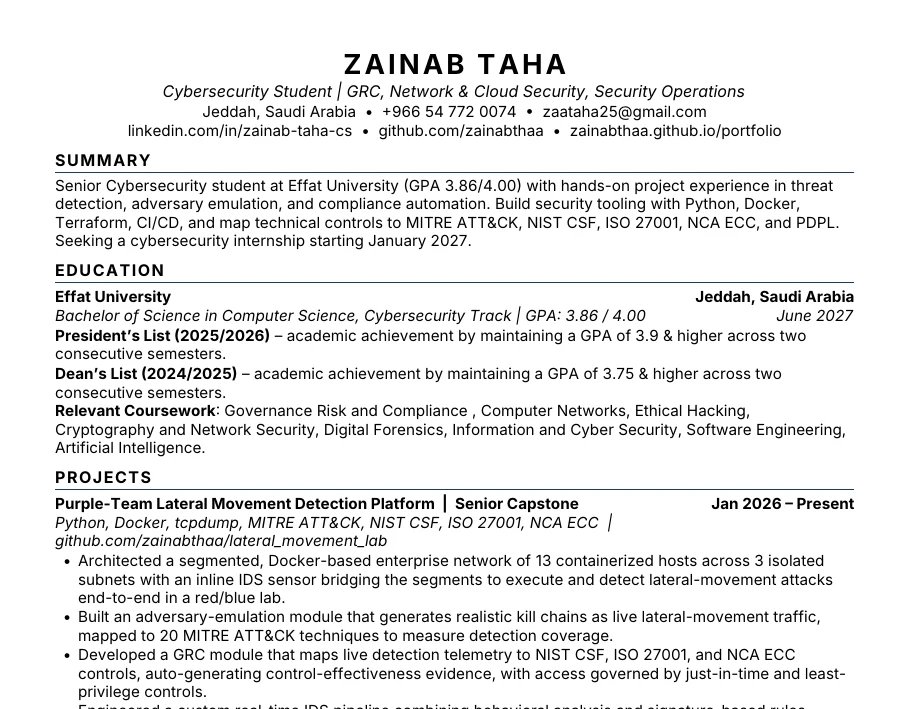
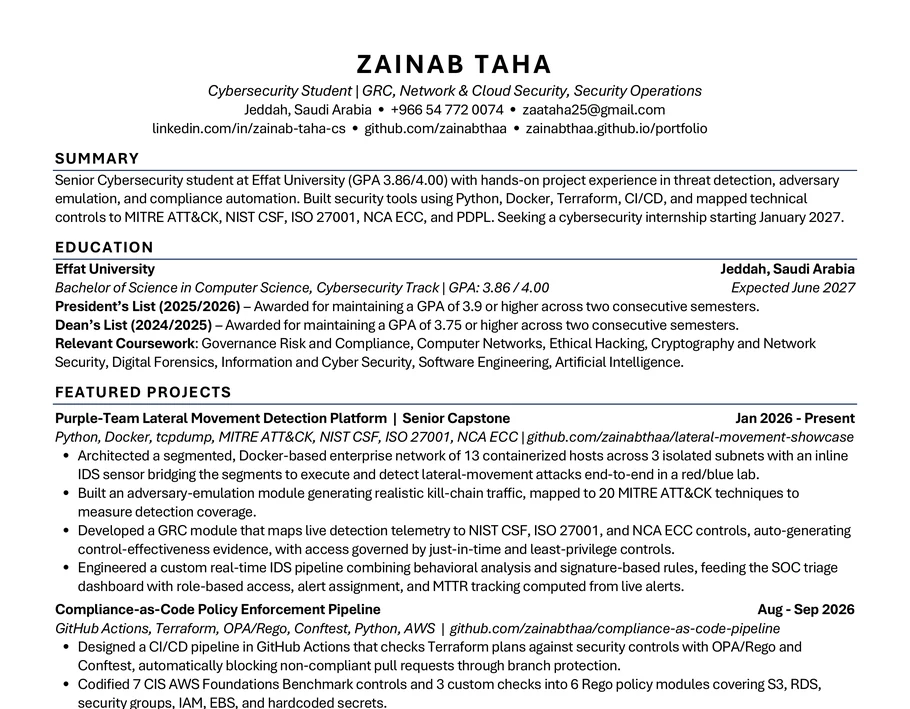
Update CV and preview, tighten contact text, remove unused images, ignore Word temp files

Changed region(s): [[0.0615, 0.0621, 0.9538, 1.0]]

diff --git a/index.html b/index.html
@@ -662,7 +662,7 @@
   <div class="wrap">
     <div class="contact reveal">
       <h2>Let's build something <span class="grad-text">secure</span></h2>
-      <p>I'm open to opportunities in GRC, cloud security and security operations. I'm based in Jeddah, Saudi Arabia. I'm most active on <a href="https://www.linkedin.com/in/zainab-taha-cs" target="_blank" rel="noopener">LinkedIn</a> — connect with me there.</p>
+      <p>Open to opportunities in GRC, cloud security and security operations. Based in Jeddah, Saudi Arabia, and most active on <a href="https://www.linkedin.com/in/zainab-taha-cs" target="_blank" rel="noopener">LinkedIn</a>.</p>
       <div class="cta">
         <button class="btn primary" id="copy-email"><svg viewBox="0 0 24 24" fill="none" stroke="currentColor" stroke-width="2"><rect x="9" y="9" width="13" height="13" rx="2"/><path d="M5 15H4a2 2 0 0 1-2-2V4a2 2 0 0 1 2-2h9a2 2 0 0 1 2 2v1"/></svg>zaataha25@gmail.com</button>
         <a class="btn" href="https://www.linkedin.com/in/zainab-taha-cs" target="_blank" rel="noopener">LinkedIn</a>
